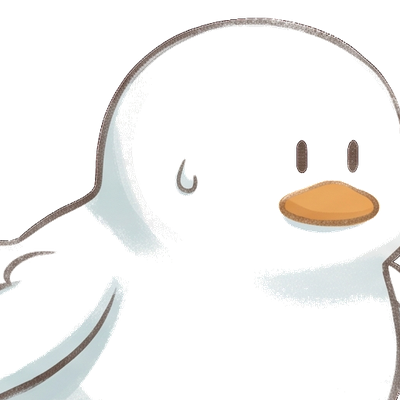
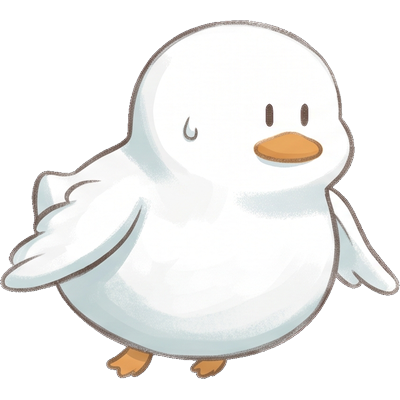
fix(game): tách nền flood-fill từ 4 góc + bỏ powerup + vịt 1 size + lớp mỡ
Tách nền (flood-fill từ 4 góc):
- Script mới: tools/asset-processing/crop_duck_floodfill.py
- Lấy màu seed từ 4 góc → BFS 4-connectivity → mask nền
- TOLERANCE=35 (Manhattan), feather viền radius 1
- KHÔNG tính vùng trắng bên trong vịt là nền (vấn đề cũ)
- Re-crop 15 sprite duck-30/45/60/70/80kg-f1/2/3.png
- KEEP_TOP_RATIO=0.78 (ẩn chân, giữ 78% trên)
- Target 400x400 transparent

Bỏ powerup:
- Xóa load 4 sprite (star/chili/heart/bomb)
- spawnItem() chỉ random từ collectibles (6 trà + 1 bún)
- Không còn 25% powerup spawn

Cơ chế size mới:
- Vịt giữ 1 SIZE CỐ ĐỊNH (DUCK_SIZE=80px) trong suốt game
- 'Mỡ' tăng theo currentKg: 30kg=0px, 80kg=30px
- 3 ellipse vàng overlay (2 bên + 1 bụng) hiện ra khi ăn nhiều
- Snap sprite theo kg gần nhất (30→45→60→70→80)
- Rotation áp dụng cho sprite, mỡ giữ thẳng

diff --git a/tmn/index.html b/tmn/index.html
@@ -1502,18 +1502,11 @@ Chúc cô gái của Nhân 20/10 thật vui vẻ và bình an nhé!</textarea>
           collectibles.push(img);
         });
 
-        // 4) Powerups (4 loại)
-        const powerupNames = ['star', 'chili', 'heart', 'bomb'];
-        powerupNames.forEach(name => {
-          const img = new Image();
-          assetsTotal++;
-          img.onload = markAssetLoaded;
-          img.onerror = () => { console.error('Failed to load', name); markAssetLoaded(); };
-          img.src = `${ASSETS_BASE}${name}.png`;
-          powerups.push(img);
-        });
+        // 4) Powerups - BỎ: chỉ giữ trà sữa + bún bò theo yêu cầu
+        // (Mảng powerups giữ trống, vẫn khai báo để tương thích code cũ)
+        // powerupNames đã bị xóa, không load 4 sprite sao/ớt/heart/bomb
 
-        // 4) Pipes - bỏ load, giờ vẽ bằng code trong drawPipeTop/Bottom
+        // 5) Pipes - bỏ load, giờ vẽ bằng code trong drawPipeTop/Bottom
       }
 
       // ===== GAME STATE =====
@@ -1535,14 +1528,12 @@ Chúc cô gái của Nhân 20/10 thật vui vẻ và bình an nhé!</textarea>
         const gapY = minGapY + Math.random() * (maxGapY - minGapY);
         pipes.push({ x: CANVAS_W + 50, gapY, passed: false });
 
-        // Spawn 1 item ngẫu nhiên trong gap: 75% collectible (trà/bún), 25% powerup
+        // Spawn 1 item ngẫu nhiên trong gap: 100% collectible (trà/bún) - bỏ powerup
         const itemX = CANVAS_W + 50 + PIPE_SPACING / 2;
         const itemY = gapY + PIPE_GAP / 2 - 30;  // giữa gap, trừ 30 để căn giữa item
-        const isPowerup = Math.random() < 0.25;
-        const pool = isPowerup ? powerups : collectibles;
-        if (pool.length === 0) return;
-        const sprite = pool[Math.floor(Math.random() * pool.length)];
-        items.push({ x: itemX, y: itemY, sprite, collected: false, isPowerup });
+        if (collectibles.length === 0) return;
+        const sprite = collectibles[Math.floor(Math.random() * collectibles.length)];
+        items.push({ x: itemX, y: itemY, sprite, collected: false, isPowerup: false });
       }
 
       // ===== UPDATE LOOP =====
@@ -1674,33 +1665,64 @@ Chúc cô gái của Nhân 20/10 thật vui vẻ và bình an nhé!</textarea>
       drawDuck(bird.x, bird.y, currentKg, bird.rotation, bird.wingPhase);
     }
 
-      // ===== VẼ VỊT BẰNG CODE (canvas drawing) =====
-      // Tránh lỗi sprite scale + cho phép animation vỗ cánh mượt
+      // ===== VẼ VỊT BẰNG CODE + LỚP MỠ =====
+      // Vịt giữ 1 size cố định, chỉ "mỡ" tăng dần theo currentKg
       function drawDuck(x, y, kg, rotation, wingPhase) {
-        // Lấy sprite theo kg + frame (frame swap theo wingPhase)
-        const sprites = duckSprites[kg] || duckSprites[30] || [];
+        // Lấy sprite theo kg gần nhất (kg tăng dần: 30→45→60→70→80)
+        // nhưng sprite vẫn giữ 1 size cố định, chỉ mỡ tăng
+        const kgKeys = Object.keys(duckSprites).map(Number).sort((a, b) => a - b);
+        let snapKg = kgKeys[0];
+        for (const k of kgKeys) { if (kg >= k) snapKg = k; }
+        const sprites = duckSprites[snapKg] || [];
         const frameIdx = Math.floor((Math.sin(wingPhase) + 1) * 1.5) % 3;  // 0,1,2
         const sprite = sprites[frameIdx];
+
+        // Size CỐ ĐỊNH cho sprite vịt (không scale theo kg)
+        const DUCK_SIZE = 80;
+
+        // Mỡ tăng theo kg: 30kg=0px, 80kg=30px (ellipse bụng)
+        const fatR = Math.max(0, (kg - 30) * 0.6);
 
         ctx.save();
         ctx.translate(x, y);
         ctx.rotate(rotation);
 
+        // 1) Lớp mỡ vàng (vẽ SAU sprite nên nằm dưới, hiện ra ở 2 bên)
+        if (fatR > 2) {
+          ctx.save();
+          // Quay về góc 0 để ellipse không bị rotation kéo nghiêng
+          ctx.rotate(-rotation);
+          ctx.fillStyle = 'rgba(255, 230, 130, 0.85)';
+          ctx.strokeStyle = 'rgba(180, 100, 30, 0.6)';
+          ctx.lineWidth = 1.5;
+          // 2 ellipse: trái + phải, lệch xuống dưới bụng
+          for (const side of [-1, 1]) {
+            ctx.beginPath();
+            ctx.ellipse(side * (DUCK_SIZE * 0.32), DUCK_SIZE * 0.18, DUCK_SIZE * 0.22 + fatR * 0.3, DUCK_SIZE * 0.18 + fatR * 0.5, 0, 0, Math.PI * 2);
+            ctx.fill();
+            ctx.stroke();
+          }
+          // 1 ellipse bụng chính giữa
+          ctx.beginPath();
+          ctx.ellipse(0, DUCK_SIZE * 0.22, DUCK_SIZE * 0.28 + fatR * 0.4, DUCK_SIZE * 0.20 + fatR * 0.4, 0, 0, Math.PI * 2);
+          ctx.fill();
+          ctx.stroke();
+          ctx.restore();
+        }
+
+        // 2) Vẽ sprite vịt (1 size cố định)
         if (sprite && sprite.complete && sprite.naturalWidth > 0) {
-          // Vẽ sprite - giữ aspect ratio, fit vừa với bodyR cũ (18→32 → sprite ~80×80→150×150)
-          const targetSize = 18 + (kg - 30) * 0.7 * 2;  // ~36 → 88 (gấp đôi bodyR cũ)
-          // Sprite nguồn 400×400 → scale giữ tỉ lệ vuông
           const sw = sprite.naturalWidth;
           const sh = sprite.naturalHeight;
-          const scale = targetSize / Math.max(sw, sh);
+          const scale = DUCK_SIZE / Math.max(sw, sh);
           const dw = sw * scale;
           const dh = sh * scale;
           ctx.drawImage(sprite, -dw / 2, -dh / 2, dw, dh);
         } else {
-          // Fallback nếu sprite chưa load: vẽ 1 hình tròn vàng đơn giản
+          // Fallback: tròn vàng
           ctx.fillStyle = '#fcd34d';
           ctx.beginPath();
-          ctx.arc(0, 0, 18 + (kg - 30) * 0.35, 0, Math.PI * 2);
+          ctx.arc(0, 0, DUCK_SIZE / 2, 0, Math.PI * 2);
           ctx.fill();
         }
 

diff --git a/tools/asset-processing/crop_duck_floodfill.py b/tools/asset-processing/crop_duck_floodfill.py
@@ -1,0 +1,182 @@
+"""Tách nền 5 ảnh duck animation - dùng flood-fill từ 4 góc.
+
+Phương pháp cũ (connected components trên white mask) bị lỗi: nếu khuôn
+mặt vịt có vùng trắng → bị tính nhầm là nền → tách mất mặt.
+
+Cách mới:
+- Bắt đầu flood-fill từ 4 góc (chắc chắn là nền)
+- Một pixel được coi là nền nếu GIỐNG màu seed (4 góc) trong tolerance
+- Mọi pixel còn lại = vật thể → giữ lại
+- Khử viền trắng mỏng quanh vật thể (border cleanup)
+
+Input:  5 file duck-{30,45,60,70,80}kg-fly.png
+Output: 15 file duck-{30,45,60,70,80}kg-f{1,2,3}.png
+        Mỗi frame: 400x400 RGBA, nền transparent
+"""
+
+import os
+import sys
+from pathlib import Path
+import numpy as np
+from PIL import Image
+from scipy.ndimage import label
+
+
+SRC = Path(r'C:\Users\nguye\Desktop\tmn 2010')
+DST = Path(r'C:\Users\nguye\bersious-web\assets\game\processed')
+
+TOLERANCE = 35         # |R-R0| + |G-G0| + |B-B0| < TOL => cùng màu nền
+KEEP_TOP_RATIO = 0.78  # Cắt 22% đáy (ẩn chân)
+TARGET_SIZE = 400      # Output vuông
+
+
+def flood_fill_corners(rgb: np.ndarray, tol: int = TOLERANCE) -> np.ndarray:
+    """Trả về mask (True = nền) bằng flood-fill từ 4 góc.
+
+    Dùng BFS đơn giản. Nhanh với ảnh vài nghìn pixel.
+    """
+    h, w = rgb.shape[:2]
+
+    # Lấy màu seed từ 4 góc (chính giữa 4 góc)
+    seeds = np.array([
+        rgb[2, 2],
+        rgb[2, w - 3],
+        rgb[h - 3, 2],
+        rgb[h - 3, w - 3],
+    ], dtype=np.int16)
+
+    # Tính khoảng cách Manhattan từ mỗi pixel đến seed gần nhất
+    # Để tăng tốc: so với 4 seeds, lấy min
+    r = rgb[:, :, 0].astype(np.int16)
+    g = rgb[:, :, 1].astype(np.int16)
+    b = rgb[:, :, 2].astype(np.int16)
+
+    dist_min = np.full((h, w), 999, dtype=np.int16)
+    for s in seeds:
+        d = np.abs(r - s[0]) + np.abs(g - s[1]) + np.abs(b - s[2])
+        dist_min = np.minimum(dist_min, d)
+
+    # Pixels có dist < tol = gần giống góc = nền tiềm năng
+    candidate = dist_min < tol
+
+    # BFS từ 4 góc: chỉ lấy vùng candidate LIỀN KỀ với góc
+    bg = np.zeros((h, w), dtype=bool)
+    queue = []
+    for (cy, cx) in [(0, 0), (0, w - 1), (h - 1, 0), (h - 1, w - 1)]:
+        if candidate[cy, cx]:
+            bg[cy, cx] = True
+            queue.append((cy, cx))
+
+    # BFS 4-connectivity
+    while queue:
+        y, x = queue.pop()
+        for dy, dx in [(-1, 0), (1, 0), (0, -1), (0, 1)]:
+            ny, nx = y + dy, x + dx
+            if 0 <= ny < h and 0 <= nx < w:
+                if not bg[ny, nx] and candidate[ny, nx]:
+                    bg[ny, nx] = True
+                    queue.append((ny, nx))
+
+    return bg
+
+
+def feather_alpha(alpha: np.ndarray, radius: int = 1) -> np.ndarray:
+    """Smooth viền alpha để tránh răng cưa."""
+    from scipy.ndimage import binary_dilation, binary_erosion
+    mask = alpha > 10
+    dilated = binary_dilation(mask, iterations=radius)
+    eroded = binary_erosion(mask, iterations=radius)
+    edge = dilated & ~eroded
+    # Alpha gradient trên vùng edge
+    new_alpha = alpha.copy()
+    new_alpha[edge] = np.clip(new_alpha[edge] // 2, 0, 255)
+    return new_alpha
+
+
+def crop_bottom_by(img: Image.Image, keep_top: float) -> Image.Image:
+    """Cắt đáy, chỉ giữ `keep_top` phần trên (0.78 = giữ 78%)."""
+    w, h = img.size
+    new_h = int(h * keep_top)
+    return img.crop((0, 0, w, new_h))
+
+
+def square_pad(img: Image.Image, size: int) -> Image.Image:
+    """Resize giữ tỉ lệ + pad vuông với nền trong suốt."""
+    w, h = img.size
+    scale = size / max(w, h)
+    new_w, new_h = int(w * scale), int(h * scale)
+    img_resized = img.resize((new_w, new_h), Image.LANCZOS)
+    canvas = Image.new('RGBA', (size, size), (0, 0, 0, 0))
+    offset_x = (size - new_w) // 2
+    offset_y = (size - new_h) // 2
+    canvas.paste(img_resized, (offset_x, offset_y), img_resized)
+    return canvas
+
+
+def process_one(kg: str, frame: int):
+    src_path = SRC / f'duck-{kg}kg-fly.png'
+    if not src_path.exists():
+        print(f'  MISS: {src_path.name}')
+        return False
+
+    img = Image.open(src_path).convert('RGB')
+    rgb = np.array(img)
+    h, w = rgb.shape[:2]
+
+    # 3 frame theo hàng ngang
+    frame_w = w // 3
+    frame_idx = frame - 1
+    x0 = frame_idx * frame_w
+    x1 = x0 + frame_w
+    rgb_frame = rgb[:, x0:x1].copy()
+
+    # 1) Tách nền bằng flood-fill từ 4 góc
+    bg_mask = flood_fill_corners(rgb_frame, TOLERANCE)
+
+    # 2) Ẩn 22% đáy (chân)
+    h_f = rgb_frame.shape[0]
+    bg_mask[int(h_f * KEEP_TOP_RATIO):, :] = True  # đáy coi như nền
+
+    # 3) Tạo RGBA
+    rgba = np.zeros((h_f, frame_w, 4), dtype=np.uint8)
+    rgba[:, :, :3] = rgb_frame
+    rgba[:, :, 3] = np.where(bg_mask, 0, 255)
+
+    # 4) Feather viền
+    rgba[:, :, 3] = feather_alpha(rgba[:, :, 3], radius=1)
+
+    img_rgba = Image.fromarray(rgba, mode='RGBA')
+
+    # 5) Tìm bbox nội dung (để square-pad chuẩn)
+    alpha = rgba[:, :, 3]
+    if (alpha > 10).any():
+        ys, xs = np.where(alpha > 10)
+        bbox = (xs.min(), ys.min(), xs.max() + 1, ys.max() + 1)
+        cropped = img_rgba.crop(bbox)
+    else:
+        cropped = img_rgba
+
+    # 6) Square-pad
+    final = square_pad(cropped, TARGET_SIZE)
+
+    # 7) Save
+    dst_path = DST / f'duck-{kg}kg-f{frame}.png'
+    final.save(dst_path, optimize=True)
+    return True
+
+
+def main():
+    DST.mkdir(parents=True, exist_ok=True)
+
+    print('=== RECROP DUCKS - FLOOD FILL FROM CORNERS ===')
+    for kg in ['30', '45', '60', '70', '80']:
+        for f in [1, 2, 3]:
+            ok = process_one(kg, f)
+            tag = 'OK' if ok else 'FAIL'
+            print(f'  [{tag}] duck-{kg}kg-f{f}.png')
+
+    print('\n=== Done ===')
+
+
+if __name__ == '__main__':
+    main()
